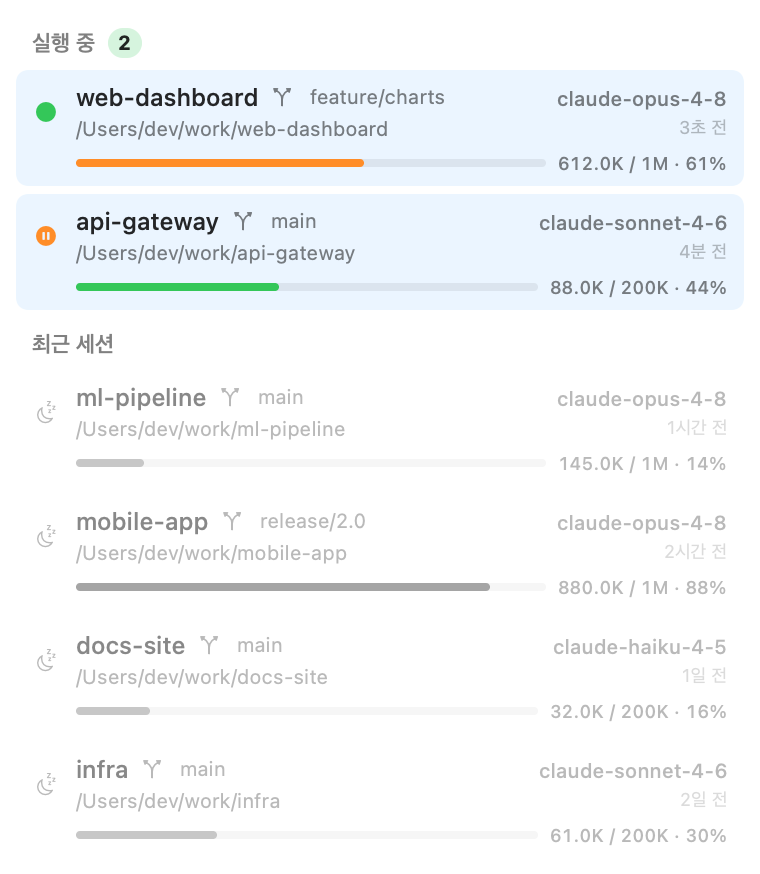
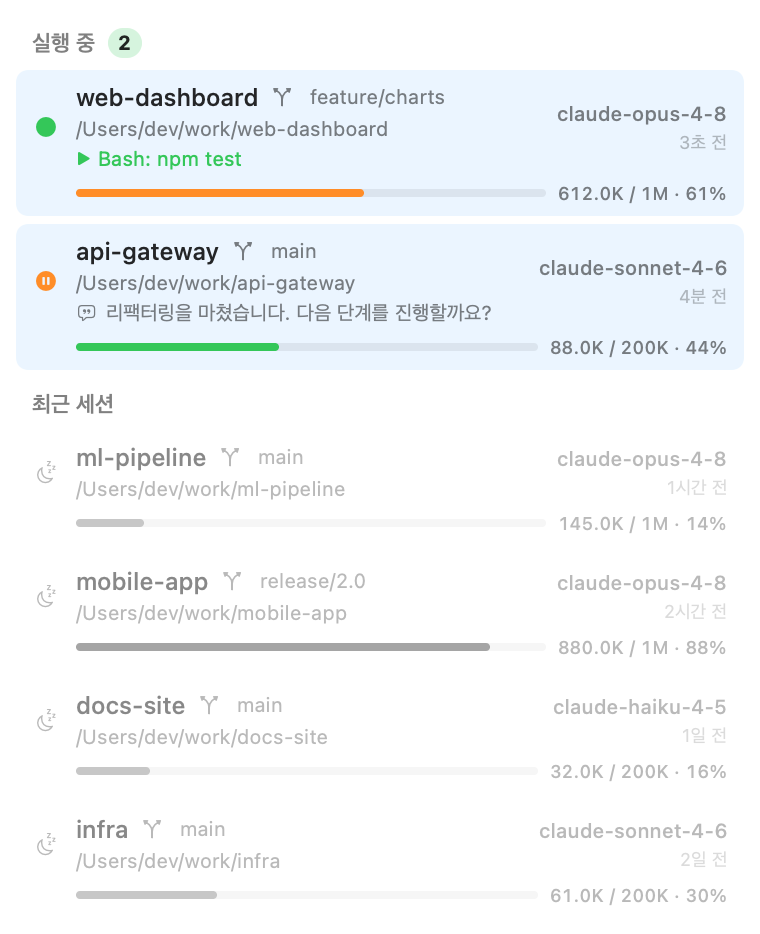
[ADD] 세션 활동 상세 (실행 중 툴 / 마지막 메시지 인라인)

diff --git a/Sources/ClaudeBar/Services/SessionScanner.swift b/Sources/ClaudeBar/Services/SessionScanner.swift
@@ -67,6 +67,7 @@ enum SessionScanner {
                 ?? matchedCwdInHead(url, projectDirName: dirName)
                 ?? ClaudePaths.decodeProjectDirName(dirName)
             sessions[i].contextTokens = detail.contextCurrent
+            sessions[i].activity = detail.activity
             let baseModel = detail.model.map(Self.stripModelSuffix)
             let configExtended = config?.projectUsesExtendedContext(
                 path: sessions[i].cwd, baseModel: baseModel) ?? false
@@ -106,13 +107,14 @@ enum SessionScanner {
 
     private static func parseTail(_ url: URL, projectDirName: String)
         -> (model: String?, gitBranch: String?, matchedCwd: String?,
-            contextCurrent: Int?, contextMax: Int) {
+            contextCurrent: Int?, contextMax: Int, activity: String?) {
         let text = FileTail.tail(url)
         var model: String?
         var gitBranch: String?
         var matchedCwd: String?    // cwd whose encoding == projectDirName (true launch dir)
         var contextCurrent: Int?   // latest assistant turn's context
         var contextMax = 0         // peak context seen in the tail
+        var activity: String?      // latest assistant action (running tool / message)
 
         // Newest to oldest: keep the first value seen for model/branch and the
         // first (latest) assistant usage as the current context.
@@ -133,6 +135,10 @@ enum SessionScanner {
                         contextMax = max(contextMax, ctx)
                     }
                 }
+                if activity == nil, (obj["type"] as? String) == "assistant",
+                   let content = msg["content"] as? [[String: Any]] {
+                    activity = summarizeContent(content)
+                }
             }
             if model == nil, let m = obj["model"] as? String { model = m }
             if gitBranch == nil, let b = obj["gitBranch"] as? String, !b.isEmpty {
@@ -143,7 +149,37 @@ enum SessionScanner {
                 matchedCwd = c
             }
         }
-        return (model, gitBranch, matchedCwd, contextCurrent, contextMax)
+        return (model, gitBranch, matchedCwd, contextCurrent, contextMax, activity)
+    }
+
+    /// Summarizes an assistant message's content blocks into a one-line activity:
+    /// the tool it's invoking (preferred) or a snippet of its text.
+    private static func summarizeContent(_ blocks: [[String: Any]]) -> String? {
+        for block in blocks.reversed()
+        where (block["type"] as? String) == "tool_use" {
+            guard let name = block["name"] as? String else { continue }
+            let input = block["input"] as? [String: Any] ?? [:]
+            return name + briefInput(input)
+        }
+        for block in blocks.reversed()
+        where (block["type"] as? String) == "text" {
+            guard let text = block["text"] as? String else { continue }
+            let line = text.replacingOccurrences(of: "\n", with: " ")
+                .trimmingCharacters(in: .whitespaces)
+            if !line.isEmpty { return String(line.prefix(80)) }
+        }
+        return nil
+    }
+
+    private static func briefInput(_ input: [String: Any]) -> String {
+        let value = (input["command"] as? String)
+            ?? (input["file_path"] as? String).map { ($0 as NSString).lastPathComponent }
+            ?? (input["pattern"] as? String)
+            ?? (input["path"] as? String).map { ($0 as NSString).lastPathComponent }
+            ?? (input["description"] as? String)
+        guard let v = value, !v.isEmpty else { return "" }
+        let oneLine = v.replacingOccurrences(of: "\n", with: " ")
+        return ": " + String(oneLine.prefix(48))
     }
 
     // MARK: - Live join

diff --git a/Sources/ClaudeBar/MockData.swift b/Sources/ClaudeBar/MockData.swift
@@ -23,7 +23,7 @@ enum MockData {
 
     private static func session(_ folder: String, branch: String?, model: String,
                                 ctx: Int, limit: Int, status: SessionStatus,
-                                live: Bool, agoSec: Double) -> Session {
+                                live: Bool, agoSec: Double, activity: String? = nil) -> Session {
         let cwd = "/Users/dev/work/\(folder)"
         return Session(
             id: "mock-\(folder)",
@@ -34,6 +34,7 @@ enum MockData {
             lastActivity: Date().addingTimeInterval(-agoSec),
             status: status,
             live: live ? liveProc("ttys00\(abs(folder.hashValue) % 8)") : nil,
+            activity: activity,
             contextTokens: ctx,
             contextLimit: limit
         )
@@ -42,9 +43,11 @@ enum MockData {
     private static func sessions() -> [Session] {
         [
             session("web-dashboard", branch: "feature/charts", model: "claude-opus-4-8",
-                    ctx: 612_000, limit: 1_000_000, status: .busy, live: true, agoSec: 3),
+                    ctx: 612_000, limit: 1_000_000, status: .busy, live: true, agoSec: 3,
+                    activity: "Bash: npm test"),
             session("api-gateway", branch: "main", model: "claude-sonnet-4-6",
-                    ctx: 88_000, limit: 200_000, status: .waiting, live: true, agoSec: 240),
+                    ctx: 88_000, limit: 200_000, status: .waiting, live: true, agoSec: 240,
+                    activity: "리팩터링을 마쳤습니다. 다음 단계를 진행할까요?"),
             session("ml-pipeline", branch: "main", model: "claude-opus-4-8",
                     ctx: 145_000, limit: 1_000_000, status: .inactive, live: false, agoSec: 5400),
             session("mobile-app", branch: "release/2.0", model: "claude-opus-4-8",

diff --git a/Sources/ClaudeBar/Features/SessionListView.swift b/Sources/ClaudeBar/Features/SessionListView.swift
@@ -75,6 +75,19 @@ private struct SessionRow: View {
                         .foregroundStyle(.secondary)
                         .lineLimit(1)
                         .truncationMode(.head)
+
+                    if session.live != nil, let activity = session.activity {
+                        HStack(spacing: 4) {
+                            Image(systemName: session.status == .busy
+                                  ? "play.fill" : "quote.bubble")
+                                .font(.system(size: 8))
+                            Text(activity)
+                                .lineLimit(1)
+                                .truncationMode(.tail)
+                        }
+                        .font(.system(size: 10))
+                        .foregroundStyle(session.status == .busy ? Color.green : Color.secondary)
+                    }
                 }
 
                 Spacer(minLength: 4)

diff --git a/Sources/ClaudeBar/Core/Models.swift b/Sources/ClaudeBar/Core/Models.swift
@@ -37,6 +37,10 @@ struct Session: Identifiable {
     var status: SessionStatus
     var live: LiveProcess?
 
+    /// What the latest assistant turn is doing (running tool or last message),
+    /// for live sessions. nil when unknown.
+    var activity: String?
+
     /// Current context size = the latest assistant turn's prompt + output
     /// (input + cache_read + cache_creation + output). nil if unknown.
     var contextTokens: Int?

diff --git a/docs/change-log/2026-06-12.md b/docs/change-log/2026-06-12.md
@@ -184,6 +184,14 @@
 ### 변경 파일
 - `Services/NotificationService.swift`(신규), `AppState.swift`(이벤트 추적/평가), `App.swift`(권한 요청·--notify-test)
 
+## [ADD] 세션 활동 상세 (지금 뭐 하는지)
+
+- 라이브 세션 행에 현재 활동 인라인 표시: 진행 중이면 **실행 중인 툴**(`▶ Bash: npm test`), 대기면 **마지막 메시지** 한 줄(`💬 …`).
+- JSONL tail의 최신 assistant 메시지 content 파싱(tool_use 우선, 없으면 text 스니펫). 툴 입력은 command/file_path/pattern 등에서 간략 추출.
+
+### 변경 파일
+- `Core/Models.swift`(Session.activity), `Services/SessionScanner.swift`(summarizeContent/briefInput), `Features/SessionListView.swift`(활동 라인), `MockData.swift`
+
 ## 이슈/논의
 - `/api/oauth/usage`는 비공식 엔드포인트라 스키마/동작이 예고 없이 바뀔 수 있음. 토큰 만료 시 자동 refresh는 미구현(Claude Code 사용 시 Keychain 토큰이 갱신됨에 의존).
 - 최초 fetch 시 앱이 Keychain 접근 허용 프롬프트를 띄울 수 있음(허용 필요).
